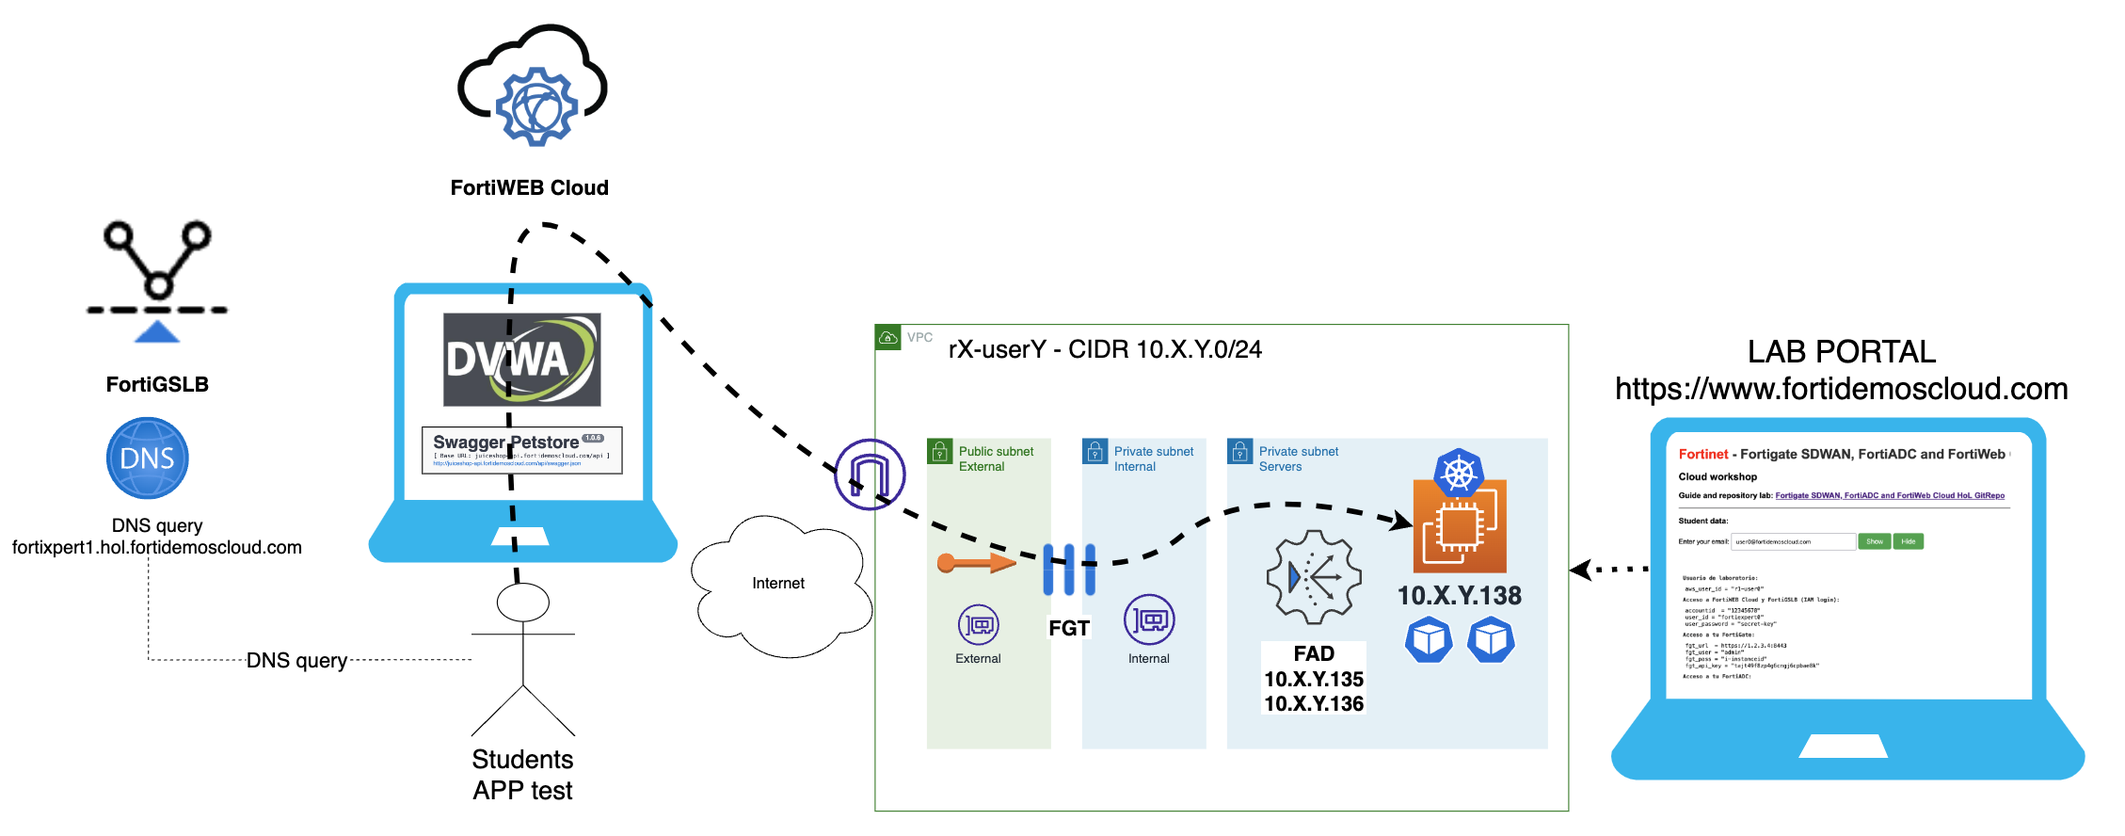
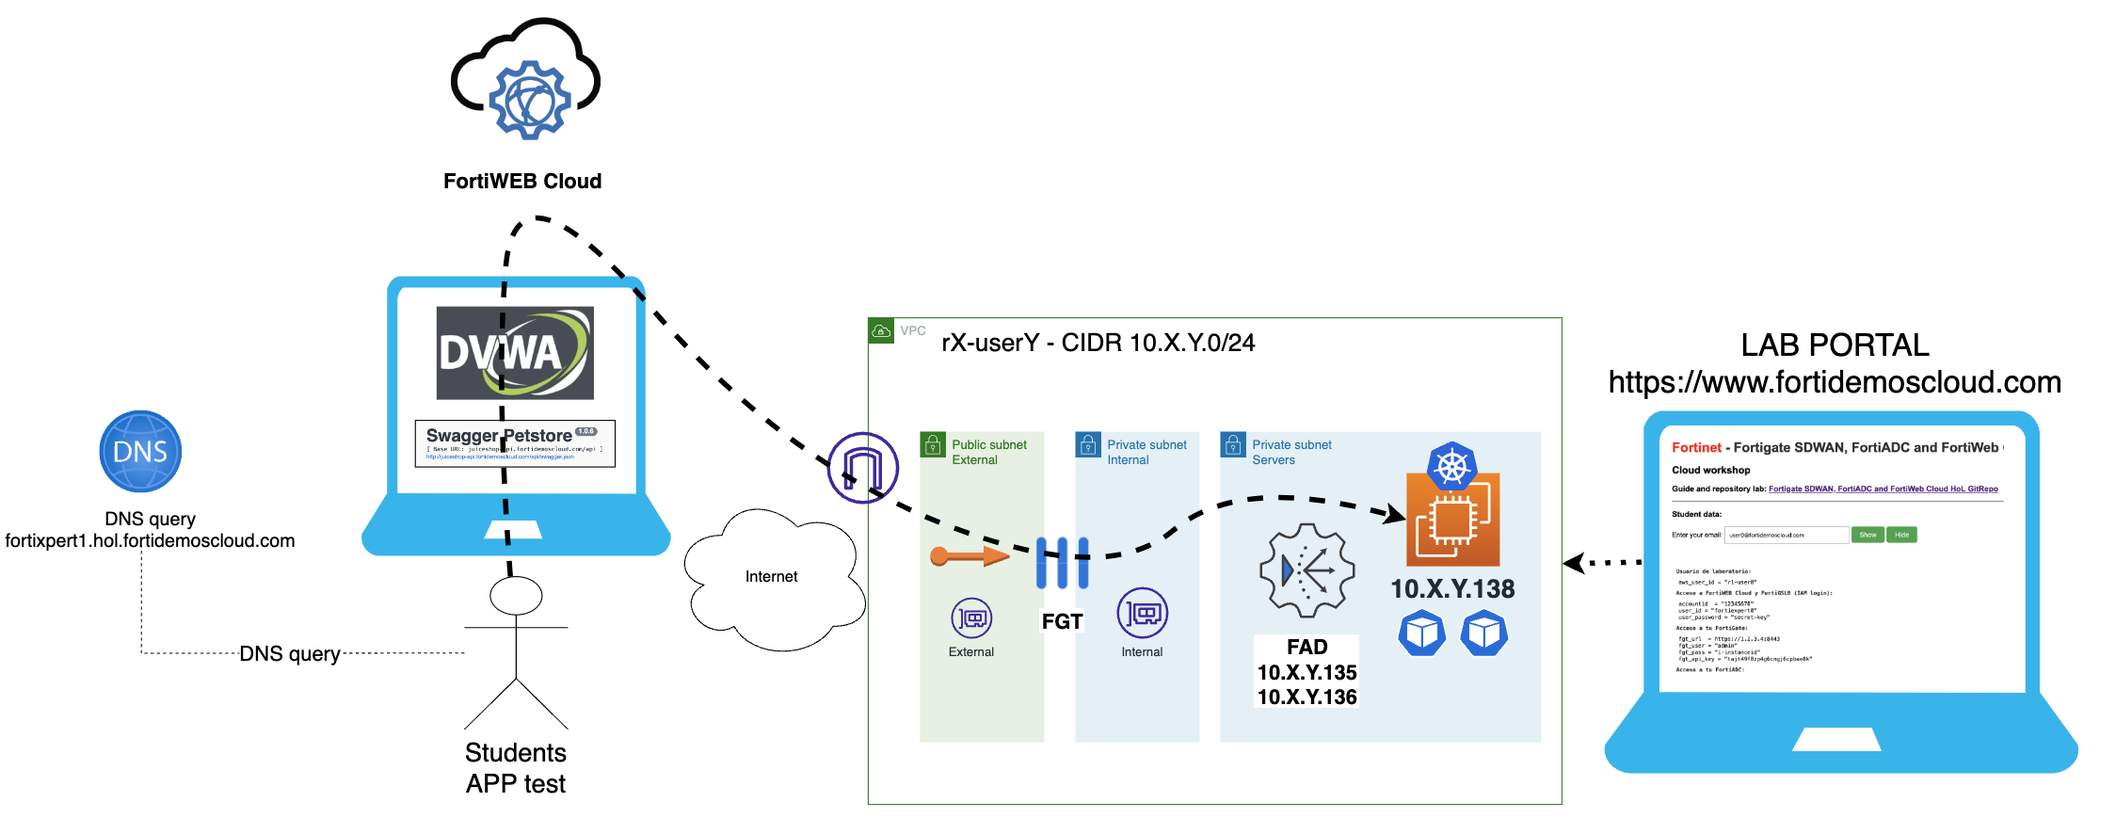
update number of labs and update guides

diff --git a/FortiWeb/README.md b/FortiWeb/README.md
@@ -40,7 +40,7 @@ Solicitud de token si la cuenta ya está validada:
 - Wizard step 1: Nombre de aplicación y dominio
 
     * **Web Application Name**: `user_id`-dvwa (Usuario FortiCloud asignado, ejemplo: fortixpert0-dvwa) - este valor no es más que un identificador dentro del portal para organizar las diferentes aplicaciones
-    * **Domain Name**: `user_id`-dvwa.hol.fortidemoscloud.com (ejemplo: fortixpert0-dvwa.hol.fortidemoscloud.com) - este valor es el que va a determinar que FQDN va a tener nuestra aplicación y que posteriormente a nivel DNS redirigiremos a FortiWeb Cloud
+    * **Domain Name**: `user_id`-dvwa.fortidemoscloud.com (ejemplo: fortixpert0-dvwa.fortidemoscloud.com) - este valor es el que va a determinar que FQDN va a tener nuestra aplicación y que posteriormente a nivel DNS redirigiremos a FortiWeb Cloud
 
 <p align="center"><img src="images/image2-2.png" width="70%" align="center"></p>
 
@@ -92,44 +92,24 @@ Copiar el nuevo FQDN para utilizar en el siguiente punto donde modificaremos los
 
 ### 2.1. Creación de nuevo CNAME para aplicación DVWA
 
-Para facilitar el acceso seguro a la nueva aplicación a través de FortiWeb Cloud, vamos a añadir un nuevo CNAME en la zona DNS reservada para el workshop, que resuelva al FQDN proporciando por FortiWeb Cloud para nuestra aplicación. Para ello vamos a usar FortiGSLB como servidor DNS del dominio hol.fortidemoscloud.com
+Para facilitar el acceso seguro a la nueva aplicación a través de FortiWeb Cloud, vamos a añadir un nuevo CNAME en la zona DNS reservada para el workshop, que resuelva al FQDN proporciando por FortiWeb Cloud para nuestra aplicación. 
 
-- Con el mismo IAM user con el que hemos accedido a FortiWeb Cloud es posible acceder al servicio SaaS de FortiGSLB en la url [FortiGSLB](http://www.fortigslb.com/)
+Para simplicar este proceso, desde el portal hemos añadido una función para crear las entradas DNS de manera automatizada. 
 
-- Selecciona la organización HoL.
+> [!WARNING]
+> Si no has copiado el CNAME del endpoint que ha generado FortiWeb para la aplicación, puedes ir al menú "NETWORK > Endpoints" y recuperarlo.
 
-<p align="center"><img src="images/image2-9.png" width="80%" align="center"></p>
-
-- Selecciona "DNS Services" en el menú de la izquierda, donde aparecen las zonas DNS relacionadas con esta organización.
-
-<p align="center"><img src="images/image2-10.png" width="50%" align="center"></p>
-
-- Selecciona la entrada "HoL" y editala para añadir una nueva entrada, bóton lapiz que encontrarás a la derecha. 
-
-<p align="center"><img src="images/image2-11.png" width="70%" align="center"></p>
-
-- En la parte inferior de la entrada, tras los parámetros de definición de la misma, encontrarás el menú para crear un nuevo registro de tipo CNAME. 
-
-<p align="center"><img src="images/image2-12.png" width="70%" align="center"></p>
-
-- La entrada CNAME corresponde al FQDN que has obtenido al dar de alta la aplicación en FortiWeb Cloud.
+- Ve al portal del curso e introduce los campos necesarios para crear una nueva entrada DNS:
   
-    * Alias: `user_id`-dvwa (ejemplo: fortixpert0-dvwa)
-    * Target: `<FortiWeb Cloud FQDN>` (ejemplo: fortixpert0-dvwa.hol.fortidemoscloud.com.P911111111.fortiwebcloud.net.)
+    * new_record: `user_id`-dvwa (ejemplo: fortixpert1-dvwa)
+    * fwb_endpoint: `<FortiWeb Cloud FQDN>` (ejemplo: fortixpert1-dvwa.fortidemoscloud.comP911111111.fortiwebcloud.net)
 
-<p align="center"><img src="images/image2-13.png" width="50%" align="center"></p>
+- Al darle a crear el resultado debe ser algo como esto:
 
-> [!WARNING]
-> Es importante que incluyas un "." al final de la entrada de Target
+<p align="center"><img src="images/image2-1-1.png" width="50%" align="center"></p>
 
-> [!WARNING]
-> Es un entorno compartido, por favor no modifiques nada que no sea lo indicado en la guía o podrás afectar al resto de usuarios
-
-- Una vez creada la entrada, ya puedes comprobar como la resolución de la nueva entrada _(ejemplo: fortixpert0-dvwa.hol.fortidemoscloud.com)_, apunta al FQDN de la aplicación creada en FortiWeb Cloud.
-- En este punto podrás comprobar al acceder a la aplicación a través de HTTPS como FortiWeb ha desplegado el certificado requerido para securizar la comunicación con la aplicación. Inicialmente se instala un certificado propio de FortiWeb y en cuestión de minutos se podrá comprobar como se despliega el certificado de Let's Encrypt de forma automatizada
-
-> [!TIP]
-> Si no has copiado el CNAME que ha generado FortiWeb para la aplicación puedes ir al menú "NETWORK > Endpoints" y recuperarlo.
+- Una vez creada la entrada, ya puedes comprobar como la resolución de la nueva entrada _(ejemplo: fortixpert1-dvwa.fortidemoscloud.com)_, apunta al FQDN de la aplicación creada en FortiWeb Cloud.
+- En este punto podrás comprobar al acceder a la aplicación a través de HTTPS como FortiWeb ha desplegado el certificado requerido para securizar la comunicación con la aplicación. Inicialmente se instala un certificado propio de FortiWeb y en cuestión de minutos se podrá comprobar como se despliega el certificado de Let's Encrypt de forma automatizada.
 
 ## 2.2. Red Team sobre Aplicación Web
 
@@ -139,7 +119,7 @@ En este punto vamos a validar el correcto funcionamiento de los mecanismos de se
 
 Los ataques de inyección ocurren cuando un atacante envía ataques simples basados en texto que explotan la sintaxis del intérprete objetivo. Casi cualquier fuente de datos puede ser un vector de inyección, como variables de entorno, parámetros, servicios web externos e internos, y todo tipo de usuarios. Las fallas de inyección ocurren cuando una aplicación envía datos no confiables a un intérprete. Las fallas de inyección son muy comunes, especialmente en código heredado. A menudo se encuentran en consultas SQL, LDAP, Xpath o NoSQL; comandos del sistema operativo; analizadores XML, encabezados SMTP, argumentos de programa, etc. Las fallas de inyección son fáciles de descubrir al examinar el código, pero más difíciles de descubrir mediante pruebas. Los escáneres y los fuzzers pueden ayudar a los atacantes a encontrar fallas de inyección. La inyección puede provocar pérdida o corrupción de datos, falta de responsabilidad o denegación de acceso. La inyección a veces puede llevar a la toma completa del host. [OWASP A03_2021-Injection] (https://owasp.org/Top10/A03_2021-Injection/)
 
-Accede a tu aplicación DVWA que has dado de alta en FortiWeb Cloud en pasos anteriores: _fortixpert#-dvwa.hol.fortidemoscloud.com_
+Accede a tu aplicación DVWA que has dado de alta en FortiWeb Cloud en pasos anteriores: _fortixpert#-dvwa.fortidemoscloud.com_
 
 > [!NOTE]
 > Si es la primera vez que accedes al portal: Username: "root" (con password en blanco) y selecciona la opción Create / Reset Database
@@ -156,7 +136,7 @@ En primer lugar vamos a desactivar la seguridad de nuestro FortiWeb Cloud para p
 
 DVWA tiene un módulo simple utilizado para demostrar ataques de inyección SQL que espera valores de _user-id_ como enteros (por ejemplo, 1, 2, 3). La aplicación mostrará información sobre el usuario asociado con un user-id dado. En el siguiente ejercicio, inyectaremos comandos SQL para acceder a las contraseñas asociadas con los nombres de usuario.
 
-Accede a tu aplicación DVWA que has dado de alta en FortiWeb Cloud en los pasos anteriores: _fortixpert#-dvwa.hol.fortidemoscloud.com_
+Accede a tu aplicación DVWA que has dado de alta en FortiWeb Cloud en los pasos anteriores: _fortixpert#-dvwa.fortidemoscloud.com_
 
 Selecciona nivel de seguridad bajo para evitar que la propia aplicación aplique controles de seguridad sobre los comandos que vamos a ejecutar
 
@@ -184,7 +164,7 @@ Recuerda desactivar la seguridad de nuestro FortiWeb Cloud para permitir que se 
 
 DVWA tiene un módulo simple utilizado para demostrar ataques de inyección de comandos que espera que un usuario introduzca una dirección IP. La aplicación luego enviará un ping a la dirección IP proporcionada. En el siguiente ejercicio, inyectaremos comandos además de la dirección IP que espera el módulo.
 
-Accede a tu aplicación DVWA que has dado de alta en FortiWeb Cloud en pasos anteriores: _fortixpert#-dvwa.hol.fortidemoscloud.com_
+Accede a tu aplicación DVWA que has dado de alta en FortiWeb Cloud en pasos anteriores: _fortixpert#-dvwa.fortidemoscloud.com_
 
 - Selecciona la opción Command Injection en el menú lateral
 - Introduce el siguiente texto que va a permitir ejecutar un comando "pwd" y obtener información sobre el direcotrio donde esta la aplicación desplegada: `4.2.2.2; pwd`
@@ -220,7 +200,7 @@ Los ataques XSS a menudo se dividen en tres tipos: XSS Persistente: donde la cad
 
 Recuerda desactivar la seguridad de nuestro FortiWeb Cloud para permitir que se lleven a cabo los ataques de este punto.
 
-Accede a tu aplicación DVWA que has dado de alta en FortiWeb Cloud en pasos anteriores: _fortixpert#-dvwa.hol.fortidemoscloud.com_
+Accede a tu aplicación DVWA que has dado de alta en FortiWeb Cloud en pasos anteriores: _fortixpert#-dvwa.fortidemoscloud.com_
 
 - Haz clic en la pestaña XSS (Reflejado) a la izquierda para lanzar el módulo.
 - Introduce un texto, ejemplo "john", para probar la funcionalidad del módulo.
@@ -265,18 +245,21 @@ Desde los logs de ataques, es posible crear excepciones de una manera sencilla.
 
 Todas las excepciones configuradas se reflejan desde `SECURITY RULES > Known Attacks`. Si el log de la aplicación, al que estamos creando la excepción, tiene asigando un template, estas quedarán reflejadas en dicho template y será donde deberiamos resetearlas para volver para la configuración inicial del mismo.
 
-### 3 Creación de aplicación API (Swagger Pet Store) (opcional)
+### 3 Creación de aplicación API (Swagger Pet Store) (OPCIONAL)
+
+> [!NOTE]
+> El alta de la aplicación de API es opcional para este laboratorio.
 
 - Comprueba que tu aplicación es accesible desde Internet, puedes encontrar la URL a la misma en los datos del laboratorio: _Acceso a tus aplicaciones > swagger_url_
 
 Para dar de alta la aplicación, seguirás los mismos pasos que en el punto anterior para el portal Web DVWA. 
 
-***Repetir los mismos pasos que en el punto 2.1 con las variaciones indicadas a continuación***
+***Repetir los mismos pasos que en el [punto 2](#2-creación-aplicación-portal-web-dvwa) con las variaciones indicadas a continuación***
 
 Cosas que debes tener en cuenta:
 
 - Web Application Name: `user_id`-api (Usuario FortiCloud asignado, ejemplo: _fortixpert0-api_)
-- Domain Name: `user_id`-api.hol.fortidemoscloud.com (ejemplo: _fortixpert0-api.hol.fortidemoscloud.com_)
+- Domain Name: `user_id`-api.fortidemoscloud.com (ejemplo: _fortixpert0-api.fortidemoscloud.com_)
 
 - Template de protección a aplicar en FortiWeb Cloud: ***api-hol-template***
 
@@ -284,45 +267,24 @@ Cosas que debes tener en cuenta:
 
 ### 3.1. Creación de nuevo CNAME para aplicación API
 
-Para facilitar el acceso seguro a la nueva aplicación a través de FortiWeb Cloud, vamos a añadir un nuevo CNAME en la zona DNS reservada para el workshop, que resuelva al FQDN proporciando por FortiWeb Cloud para nuestra aplicación. Para ello vamos a usar FortiGSLB como servidor DNS del dominio hol.fortidemoscloud.com
+Puedes repetir los pasos en el [punto 2.1](#21-creación-de-nuevo-cname-para-aplicación-dvwa)
 
-- Con el mismo IAM user con el que hemos accedido a FortiWeb Cloud es posible acceder al servicio SaaS de FortiGSLB en la url [FortiGSLB](http://www.fortigslb.com/)
-- Selecciona la organización HoL.
+> [!WARNING]
+> Si no has copiado el CNAME del endpoint que ha generado FortiWeb para la aplicación, puedes ir al menú "NETWORK > Endpoints" y recuperarlo.
 
-<p align="center"><img src="images/image2-9.png" width="80%"></p>
-
-- Selecciona "DNS Services" en el menú de la izquierda, donde aparecen las zonas DNS relacionadas con esta organización.
-
-<p align="center"><img src="images/image2-10.png" width="50%"></p>
-
-- Selecciona la entrada "HoL" y editala para añadir una nueva entrada, bóton lapiz que encontrarás a la derecha. 
-
-![image2-11.png](images/image2-11.png)
-
-- En la parte inferior de la entrada, tras los parámetros de definición de la misma, encontrarás el menú para crear un nuevo registro de tipo CNAME. 
-
-![image2-12.png](images/image2-12.png)
-
-- La entrada CNAME corresponde al FQDN que has obtenido al dar de alta la aplicación en FortiWeb Cloud.
+- Ve al portal del curso e introduce los campos necesarios para crear una nueva entrada DNS:
   
-    * Alias: `user_id`-api (ejemplo: fortixpert0-api)
-    * Target: `<FortiWeb Cloud FQDN>` (ejemplo: fortixpert0-api.hol.fortidemoscloud.com.P911111111.fortiwebcloud.net.)
+    * new_record: `user_id`-api (ejemplo: fortixpert1-api)
+    * fwb_endpoint: `<FortiWeb Cloud FQDN>` (ejemplo: fortixpert1-api.fortidemoscloud.comP911111111.fortiwebcloud.net)
 
-<p align="center"><img src="images/image2-13.png" width="50%"></p>
+- Al darle a crear el resultado debe ser algo como esto:
 
-> [!WARNING]
-> Es importante que incluyas un "." al final de la entrada de Target
+<p align="center"><img src="images/image3-1-1.png" width="50%" align="center"></p>
 
-> [!WARNING]
-> Es un entorno compartido, por favor no modifiques nada que no sea lo indicado en la guía o podrás afectar al resto de usuarios
+- Una vez creada la entrada, ya puedes comprobar como la resolución de la nueva entrada _(ejemplo: fortixpert1-api.fortidemoscloud.com)_, apunta al FQDN de la aplicación creada en FortiWeb Cloud.
+- En este punto podrás comprobar al acceder a la aplicación a través de HTTPS como FortiWeb ha desplegado el certificado requerido para securizar la comunicación con la aplicación. Inicialmente se instala un certificado propio de FortiWeb y en cuestión de minutos se podrá comprobar como se despliega el certificado de Let's Encrypt de forma automatizada.
 
-- Una vez creada la entrada, ya puedes comprobar como la resolución de la nueva entrada _(ejemplo: fortixpert0-api.hol.fortidemoscloud.com)_, apunta al FQDN de la aplicación creada en FortiWeb Cloud.
-- En este punto podrás comprobar al acceder a la aplicación a través de HTTPS como FortiWeb ha desplegado el certificado requerido para securizar la comunicación con la aplicación. Inicialmente se instala un certificado propio de FortiWeb y en cuestión de minutos se podrá comprobar como se despliega el certificado de Let's Encrypt de forma automatizada
-
-> [!TIP]
-> Si no has copiado el CNAME que ha generado FortiWeb para la aplicación puedes ir al menú "NETWORK > Endpoints" y recuperarlo.
-
-## 3.2 Entrenamiento del módelo ML de API (opcional)
+## 3.2 Entrenamiento del módelo ML de API
 
 El template de seguridad aplicado para la aplicación API, lleva activada la protección de APIs mediante Machine Learning. Para que el modelo pueda aprender el patrón de tráfico de la aplicación, vamos a forzar cierto tráfico mediante un par de scripts que permiten simular lo que sería un uso normal de la API. Para revisar el template podeis hacerlo desde el menú de la izquierda `GLOBAL > Templates`
 
@@ -341,7 +303,7 @@ Seleccionar el template `api-hol-template` y revisar los profile de seguridad ap
 chmod +x fwb_training_get.sh
 chmod +x fwb_training_post.sh
 ```
-- Ejecutar los scripts: (debes introducir la URL de tu aplicación API en formato correcto, ejemplo: https://fortixpert0-api.hol.fortidemoscloud.com)
+- Ejecutar los scripts: (debes introducir la URL de tu aplicación API en formato correcto, ejemplo: https://fortixpert0-api.fortidemoscloud.com)
 ```sh
 ./fwb_training_get.sh <URL de la API> 
 ```
@@ -392,7 +354,7 @@ En el punto 3.2.3, se ha modificado el comportamiento de protección frente a ll
 - "status" JSON parameter is missing in the JSON request and is blocked by FortiWeb-Cloud. The expected result is a Request query validation failed status.
 
 ```sh
-curl -v -X 'GET' 'https://fortixpert0-api.hol.fortidemoscloud.com/api/pet/findByStatus?' -H 'Accept: application/json' -H 'Content-Type: application/json'
+curl -v -X 'GET' 'https://fortixpert0-api.fortidemoscloud.com/api/pet/findByStatus?' -H 'Accept: application/json' -H 'Content-Type: application/json'
 ```
 
 ### 3.2.4.2 URL Query Parameter Long
@@ -400,7 +362,7 @@ curl -v -X 'GET' 'https://fortixpert0-api.hol.fortidemoscloud.com/api/pet/findBy
 - "status" URL query parameter is too long. The expected result, JSON parameter length violation.
 
 ```sh
-curl -v -X 'GET' 'https://fortixpert0-api.hol.fortidemoscloud.com/api/pet/findByStatus?status=ABCDEFGHIJKL' -H 'Accept: application/json' -H 'Content-Type: application/json'
+curl -v -X 'GET' 'https://fortixpert0-api.fortidemoscloud.com/api/pet/findByStatus?status=ABCDEFGHIJKL' -H 'Accept: application/json' -H 'Content-Type: application/json'
 ```
 
 ### 3.2.4.3 URL Query Parameter Short
@@ -408,7 +370,7 @@ curl -v -X 'GET' 'https://fortixpert0-api.hol.fortidemoscloud.com/api/pet/findBy
 - "status" URL query parameter is too short. The expected result is a parameter violation.
 
 ```sh
-curl -v -X 'GET' 'https://fortixpert0-api.hol.fortidemoscloud.com/api/pet/findByStatus?status=A' -H 'Accept: application/json' -H 'Content-Type: application/json'
+curl -v -X 'GET' 'https://fortixpert0-api.fortidemoscloud.com/api/pet/findByStatus?status=A' -H 'Accept: application/json' -H 'Content-Type: application/json'
 ```
 
 ### 3.2.4.4 Cross Site Script in URL
@@ -416,7 +378,7 @@ curl -v -X 'GET' 'https://fortixpert0-api.hol.fortidemoscloud.com/api/pet/findBy
 - "status" URL query parameter will carry a Command Injection attack. The expected result is a known signature violation.
     
 ```sh
-curl -v -X 'GET' 'https://fortixpert0-api.hol.fortidemoscloud.com/api/pet/findByStatus?status=<script>alert(123)</script>'  -H 'Accept: application/json' -H 'Content-Type: application/json'
+curl -v -X 'GET' 'https://fortixpert0-api.fortidemoscloud.com/api/pet/findByStatus?status=<script>alert(123)</script>'  -H 'Accept: application/json' -H 'Content-Type: application/json'
 ```
 
 ### 3.2.4.5 Cross Site Script in Body
@@ -424,7 +386,7 @@ curl -v -X 'GET' 'https://fortixpert0-api.hol.fortidemoscloud.com/api/pet/findBy
 - "status" JSON body will carry an XSS attack. The expected result, the attack is being blocked by Machine Learning.
 
 ```sh
-curl -v -X 'POST' 'https://fortixpert0-api.hol.fortidemoscloud.com/api/pet' -H 'accept: application/json' -H 'Content-Type: application/json' -d '{"id": 111, "category": {"id": 111, "name": "Camel"}, "name": "FortiCamel", "photoUrls": ["WillUpdateLater"], "tags": [ {"id": 111, "name": "FortiCamel"}], "status": "<script>alert(123)</script>"}'
+curl -v -X 'POST' 'https://fortixpert0-api.fortidemoscloud.com/api/pet' -H 'accept: application/json' -H 'Content-Type: application/json' -d '{"id": 111, "category": {"id": 111, "name": "Camel"}, "name": "FortiCamel", "photoUrls": ["WillUpdateLater"], "tags": [ {"id": 111, "name": "FortiCamel"}], "status": "<script>alert(123)</script>"}'
 ```
 
 ### 3.2.4.6 Zero Day Attacks
@@ -434,7 +396,7 @@ We will now use some sample Zero Day Attacks.
 - Cross Site Script in the Body
 
 ```sh
-curl -v -X 'POST' 'https://fortixpert0-api.hol.fortidemoscloud.com/api/pet' -H 'accept: application/json' -H 'Content-Type: application/json' -d '{"id": 111, "category": {"id": 111, "name": "Camel"}, "name": "javascript:qxss(X160135492Y1_1Z);", "photoUrls": ["WillUpdateLater"], "tags": [ {"id": 111, "name": "FortiCamel"}], "status": "available”}
+curl -v -X 'POST' 'https://fortixpert0-api.fortidemoscloud.com/api/pet' -H 'accept: application/json' -H 'Content-Type: application/json' -d '{"id": 111, "category": {"id": 111, "name": "Camel"}, "name": "javascript:qxss(X160135492Y1_1Z);", "photoUrls": ["WillUpdateLater"], "tags": [ {"id": 111, "name": "FortiCamel"}], "status": "available”}
 ```
 
 ## Laboratorio completado

diff --git a/README.md b/README.md
@@ -16,7 +16,6 @@ El formato del laboratorio consiste en 2 laboratorios diferenciados cuyos datos 
 * [FortiADC](./FortiADC): balanceo y protección de aplicaciones en entorno hibrido
 * [FortiWeb](./FortiWeb): protección WEB y protección avanzada de APIs
 * [FortiDAST](./FortiDAST): análisis de vulnerabilidades de las aplicaciones
-* [FortiGSLB](./FortiGLSB): balanceo global de aplicaciones (opcional)
 
 ## Diagrama general de los laboratorios
 
@@ -72,12 +71,6 @@ En este laboratorio llevaremos a cabo las siguientes tareas:
 - Integración de FortiWeb Cloud con el servicio de análisis de vulnerabilidades de FortiDAST
 - Lanzamiento de escaneo sobre las aplicaciones desplegadas para identificar potenciales riesgos de las aplicaciones
 - Análisis de los resultados de los escaneos
-
-## [FortiGSLB](./FortiGSLB)
-
-En este laboratorio llevaremos a cabo las siguientes tareas:
-- Dar de alta nuestra aplicación como server del servicio GSLB.
-- Añadir nueevo virtual server al servicio GSLB ya configurado en FortiGSLB.
 
 ## Support
 This a personal repository with goal of testing and demo Fortinet solutions on the Cloud. No support is provided and must be used by your own responsability. Cloud Providers will charge for this deployments, please take it in count before proceed.

diff --git a/FortiGate/README.md b/FortiGate/README.md
@@ -129,7 +129,7 @@ ej. 10.20.5.138 asignado al user 5 en la region 2
 > [!NOTE]
 > Vuestro usuario todavía no aparecerá en el Leader Board llegados a este punto, aunque has sido capaz de realizar un troubleshooting de conectividad IPSEC, todavía falta realizar una configuración adicional para permitir la conectividad entre el servidor del laboratio y vuestro servidor. Esto es debido, a que se ha configurado una regla de firewall permitiendo el tráfico contra un destino que hace referencia a un objeto dinámico, apuntando a un tag de tu servidor, pero, NO está configurado correctamente. 
 
-Ve a la sección de politicas de seguridad `Policy & Objects` > `Firewal Policy`, desde allí verás una regla configurada con un signo de alerta indicando el problema. (Te recomiendo la vista `Interface Pair View` que puedes activar en la parte derecha).
+Ve a la sección de politicas de seguridad `Policy & Objects` > `Firewal Policy`, aquí podrás encontrar un par de políticas que usan un objeto dinámico. (Te recomiendo la vista `Interface Pair View` que puedes activar en la parte derecha).
 
 <p align="center"><img src="images/image1-3-0.png" width="70%" align="center"></p>
 

diff --git a/FortiDAST/README.md b/FortiDAST/README.md
@@ -70,4 +70,4 @@ El escaneo llevará unos minutos, puedes aprovechar ese momento para ir familiar
 - Con esto concluye este laboratorio de FortiDAST y con él la parte del workshop dedicada a Seguridad para aplicaciones web y API
 
 ## Laboratorio completado
-Una vez concluido este laboratorio es hora de Pasar al laboratorio 4: [FortiGSLB](https://github.com/xpertsummit/xpertsummit24/tree/main/FortiGSLB)
+Laboratorio completado. 
